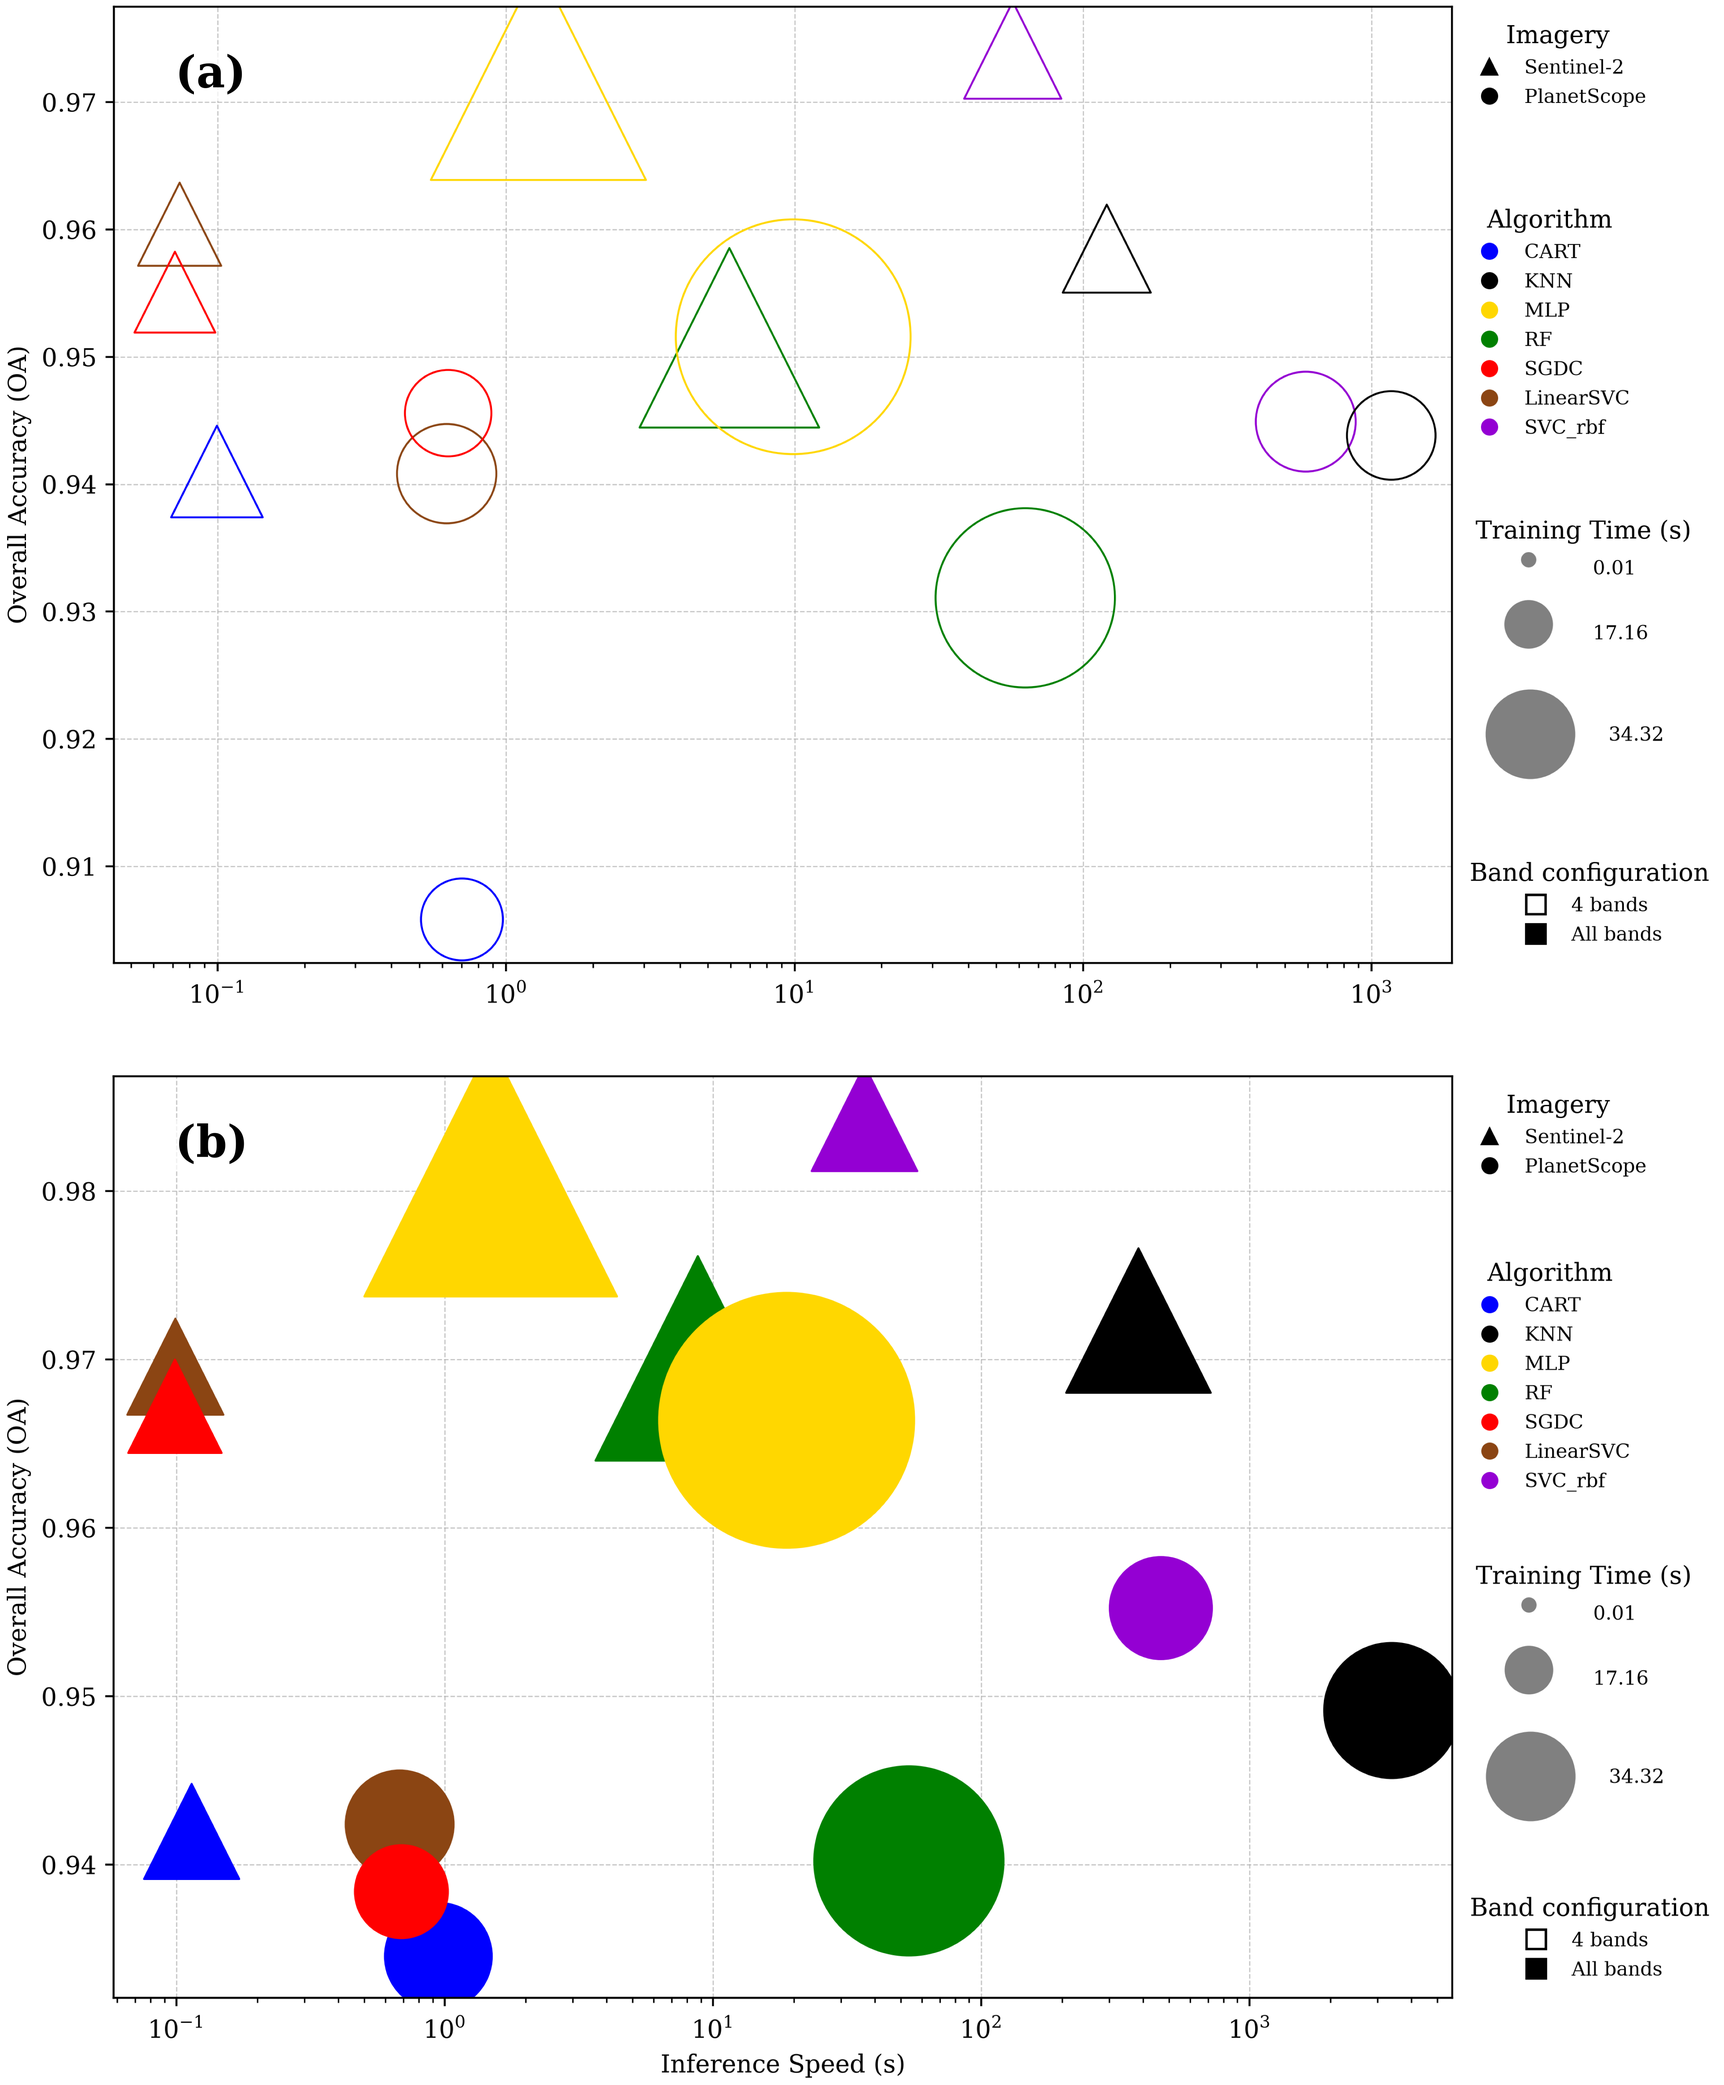
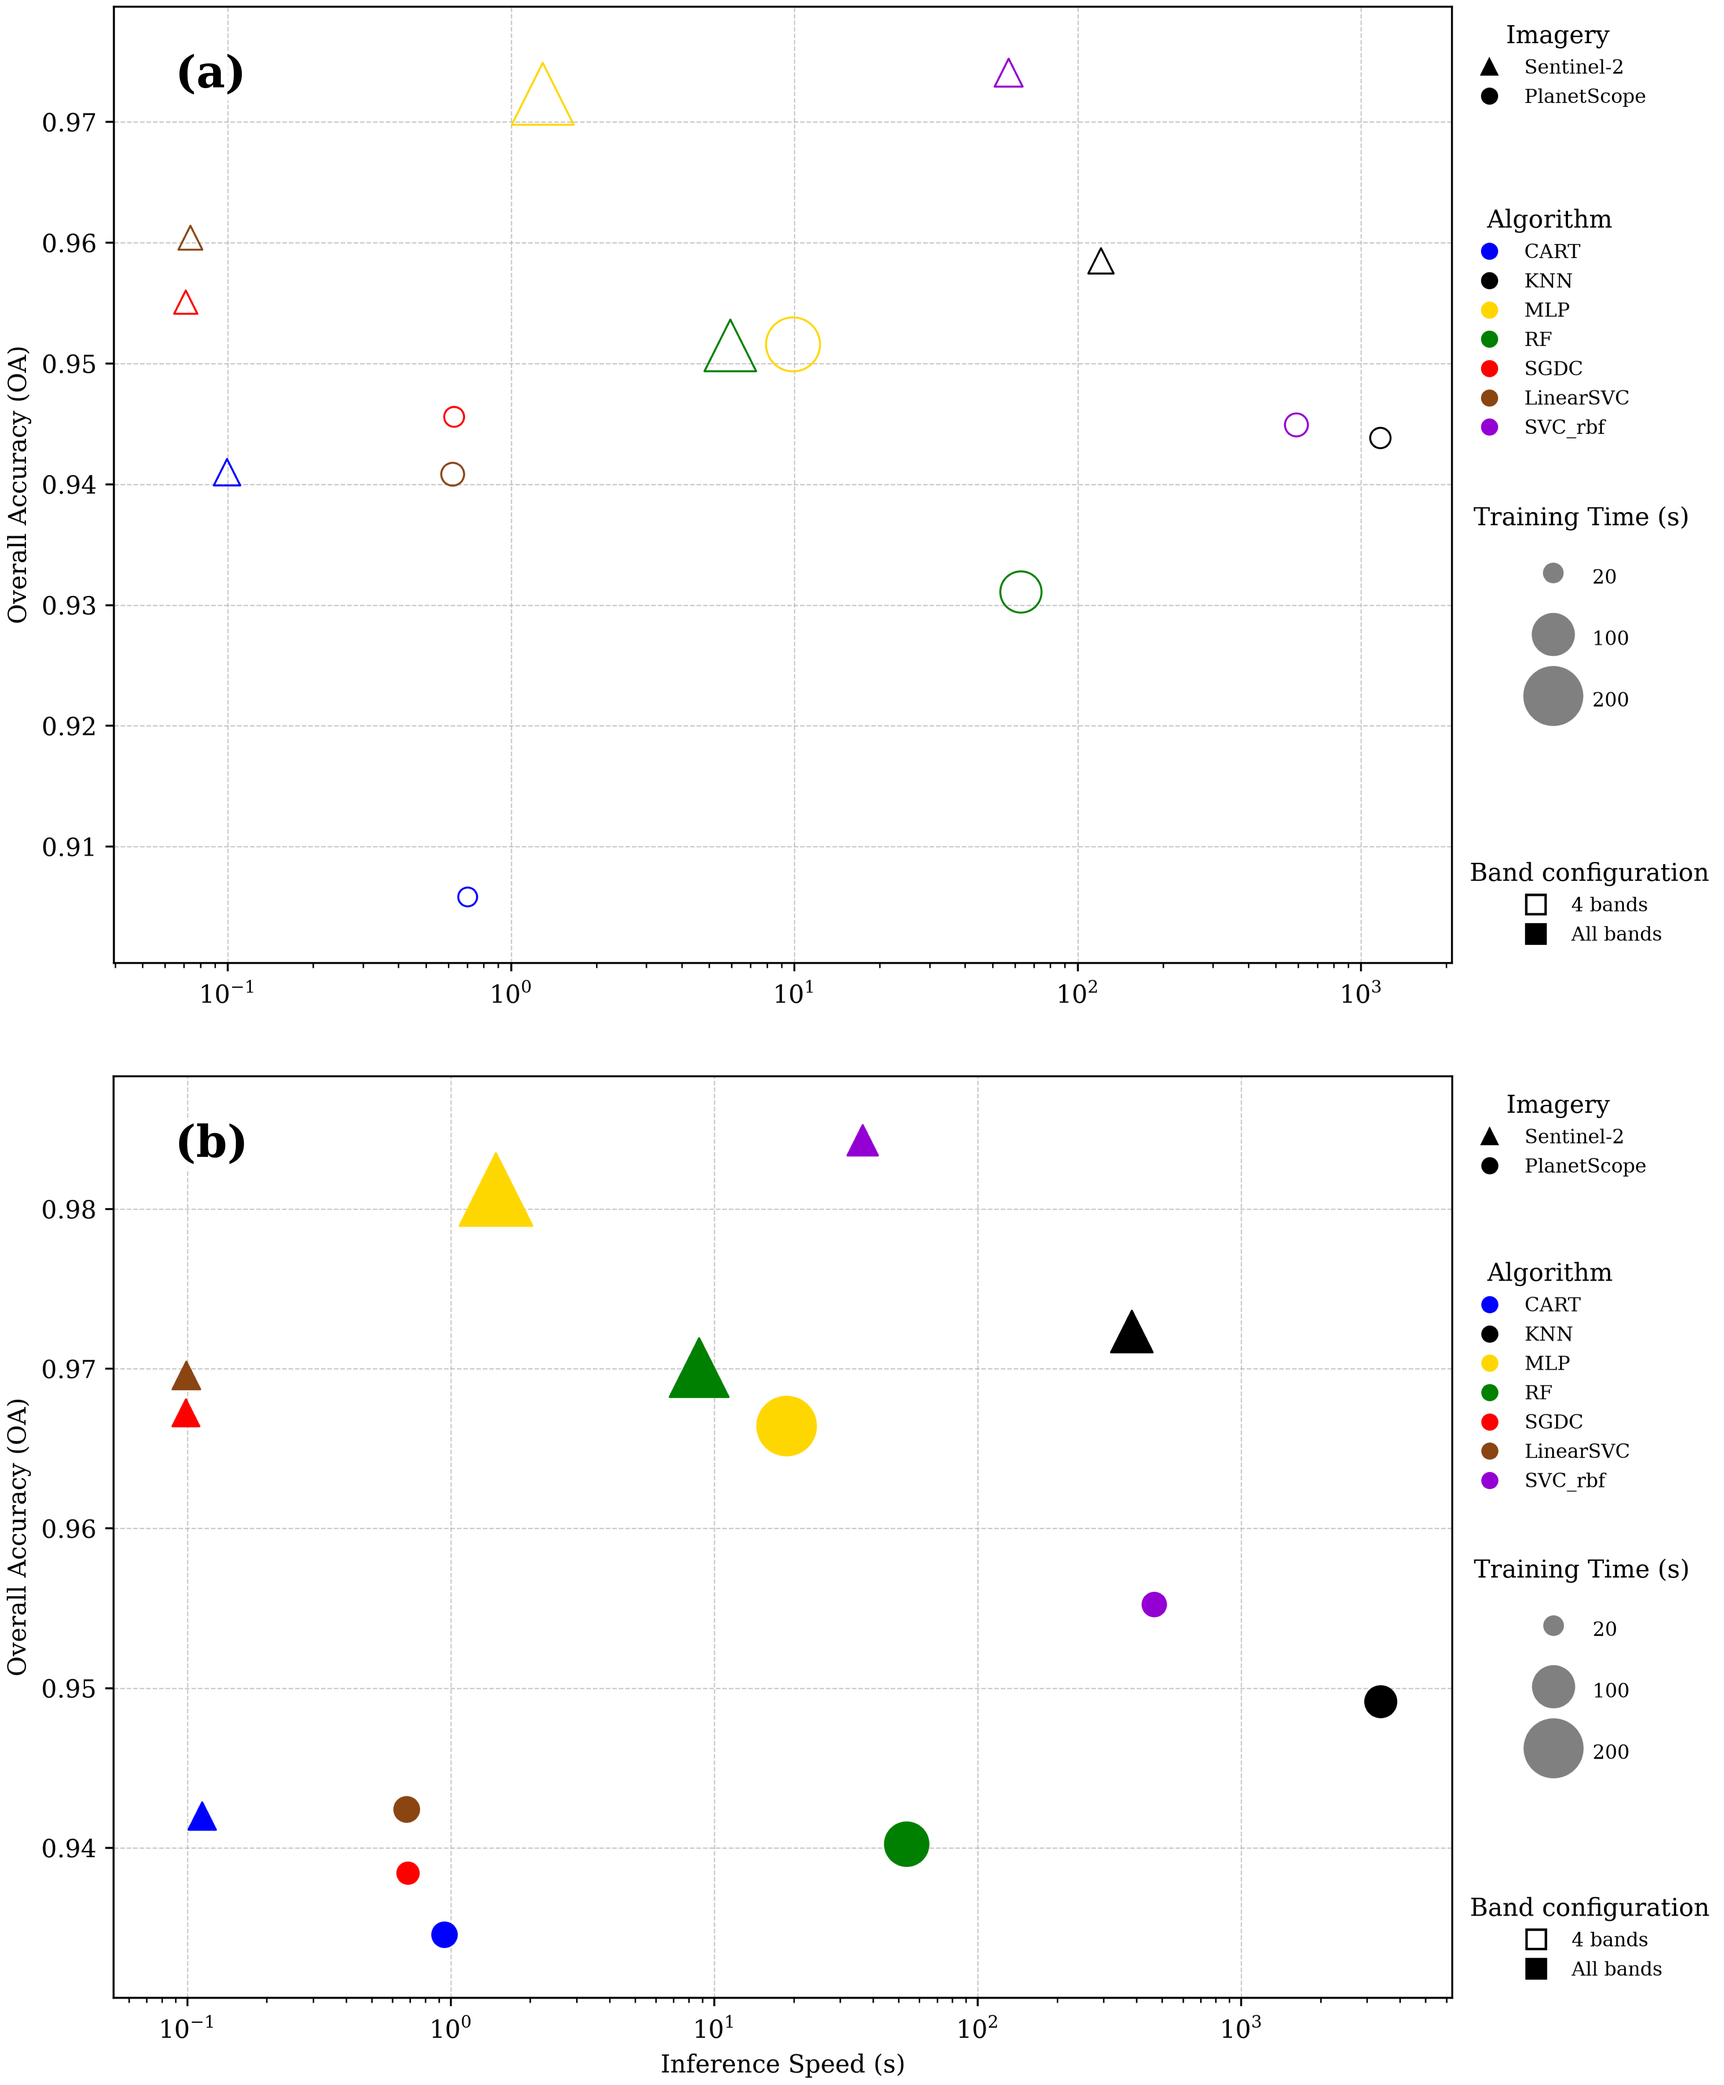
adjusting markers size in Fig 1 and Fig B1

diff --git a/code/src/plotting.py b/code/src/plotting.py
@@ -16,6 +16,7 @@ from pathlib import Path
 import matplotlib.colors as mcolors
 import matplotlib.image as mpimg
 import matplotlib.lines as mlines
+import matplotlib.markers as mmarkers
 import matplotlib.pyplot as plt
 import numpy as np
 import pandas as pd
@@ -38,6 +39,20 @@ ALG_COLORS = {
 
 PREFERRED_ALG_ORDER = ["CART", "KNN", "MLP", "RF", "SGDC", "LinearSVC", "SVC_rbf"]
 IMAGERY_MARKERS = {"S2": "^", "PS": "o"}
+
+
+def marker_area_factor(marker):
+    """Scatter size factor that gives `marker` the filled area of a circle ("o") of the same size.
+
+    At equal scatter size s, matplotlib's markers cover different areas (circle 0.785 s, triangle 0.5 s), so
+    without this factor a triangle would show a smaller training time than a circle of the same value.
+    """
+    def unit_area(m):
+        style = mmarkers.MarkerStyle(m)
+        x, y = style.get_path().transformed(style.get_transform()).to_polygons()[0].T
+        return 0.5 * abs(np.dot(x, np.roll(y, 1)) - np.dot(y, np.roll(x, 1)))
+
+    return unit_area("o") / unit_area(marker)
 
 
 # ---------------------------------------------------------------------------
@@ -356,7 +371,7 @@ def plot_scatter_from_mode(
     results_path,
     mode="both",
     output_name="figure.png",
-    marker_scale_factor=1.5,
+    max_point_size=24.0 ** 2,
     min_point_size=18,
     save_dpi=400,
     show_xlabel=True,
@@ -375,7 +390,9 @@ def plot_scatter_from_mode(
         Directory where the figure is saved.
     mode : {'both', 'all', '4'}
     output_name : str
-    marker_scale_factor, min_point_size, save_dpi : plot tuning
+    max_point_size, min_point_size, save_dpi : plot tuning. Marker area (points^2) is proportional to the
+        training time: the longest training time of all image sets gets max_point_size, so every panel and
+        the size legend share one scale.
     show_xlabel : bool
     bands : bool
         Whether to show the band legend.
@@ -392,6 +409,13 @@ def plot_scatter_from_mode(
 
     alg_legend = {}
     imagery_legend = {}
+
+    # One scale for all panels: the longest training time of every image set gets max_point_size.
+    longest_tt = max(tt for mode_data in plot_data["data_by_mode"].values()
+                     for alg_data in mode_data.values() for (_, _, tt) in alg_data.values())
+
+    def area(training_time):
+        return max(min_point_size, max_point_size * training_time / longest_tt)
 
     level_map = plot_data["level_map"]
     band_map = plot_data["band_map"]
@@ -410,8 +434,7 @@ def plot_scatter_from_mode(
 
         plot_items = []
         for alg, (oa, classification_time, training_time) in alg_data.items():
-            point_size = (training_time * 100 if training_time < 0.5 else training_time * 35) * marker_scale_factor
-            point_size = max(min_point_size, point_size)
+            point_size = area(training_time) * marker_area_factor(marker)  # equal filled area per TT
             plot_items.append((alg, oa, classification_time, point_size))
 
         plot_items.sort(key=lambda item: item[3], reverse=True)
@@ -454,26 +477,22 @@ def plot_scatter_from_mode(
                       linestyle="None", markersize=8, label="All bands"),
     ]
 
-    size_legend_values = [0.01, 17.16, 34.32]
-    size_legend_markers = [3.5, 12.6, 23.8]
+    # Size legend: values near 1/10, 1/2 and 1 of the longest training time (one significant figure), drawn with the same area as
+    # the points (Line2D markersize is a diameter: sqrt of the scatter area).
+    def round_value(x):
+        return float(f"{x:.1g}")  # one significant figure
+
+    size_legend_values = [round_value(longest_tt * f) for f in (0.1, 0.5, 1.0)]
     size_legend = [
         mlines.Line2D(
             [0], [0],
             color="gray", marker="o", linestyle="None",
-            markersize=marker_size * marker_scale_factor,
+            markersize=np.sqrt(area(value)),
             markerfacecolor="gray", markeredgecolor="gray",
-            label=f"{value:.2f}",
+            label=f"{value:g}",
         )
-        for marker_size, value in zip(size_legend_markers, size_legend_values)
+        for value in size_legend_values
     ]
-
-    title_to_first_gap = 0.0
-    gap_1_to_2 = 0.8
-    gap_2_to_3 = 2.8
-
-    training_legend_anchor_x = 1.2
-    training_legend_anchor_y = 0.3
-    third_item_offset_y = 0.035 + 0.02 * gap_2_to_3
 
     legend1 = plt.legend(
         imagery_legend_handles, imagery_legend_labels,
@@ -486,27 +505,16 @@ def plot_scatter_from_mode(
         bbox_to_anchor=(1, 0.53), frameon=False,
     )
     plt.gca().add_artist(legend1)
-
-    legend3_top = plt.legend(
-        handles=size_legend[:2],
+    # One size legend: the three entries share the handle column, so their labels line up.
+    legend3 = plt.legend(
+        handles=size_legend,
         title="Training Time (s)", fontsize=8,
-        loc="lower right",
-        bbox_to_anchor=(training_legend_anchor_x - 0.008, training_legend_anchor_y),
-        frameon=False, handlelength=1.0, handletextpad=2.8,
-        labelspacing=gap_1_to_2, handleheight=3.5,
+        loc="upper left", bbox_to_anchor=(1, 0.5),
+        frameon=False, handlelength=2.0, handleheight=2.0, handletextpad=1.0, labelspacing=1.6,
+        borderpad=0.6,
     )
-    legend3_top._legend_box.sep = title_to_first_gap
-
-    legend3_bottom = plt.legend(
-        handles=[size_legend[2]], fontsize=8,
-        loc="lower right",
-        bbox_to_anchor=(training_legend_anchor_x - 0.0285,
-                        training_legend_anchor_y - third_item_offset_y),
-        frameon=False, handlelength=1.0, handletextpad=3.5,
-    )
-
     plt.gca().add_artist(legend2)
-    plt.gca().add_artist(legend3_top)
+    plt.gca().add_artist(legend3)
 
     if bands or mode in {"all", "4"}:
         plt.legend(
@@ -514,10 +522,10 @@ def plot_scatter_from_mode(
             title="Band configuration", fontsize=8,
             loc="lower left", bbox_to_anchor=(1, 0.00), frameon=False,
         )
-        plt.gca().add_artist(legend3_bottom)
 
     plt.grid(True, which="major", linestyle="--", linewidth=0.5, alpha=0.7)
     plt.xscale("log")
+    plt.margins(x=0.06, y=0.08)  # room for the largest markers at the edges
     if show_xlabel:
         plt.xlabel("Inference Speed (s)")
     plt.ylabel("Overall Accuracy (OA)")
